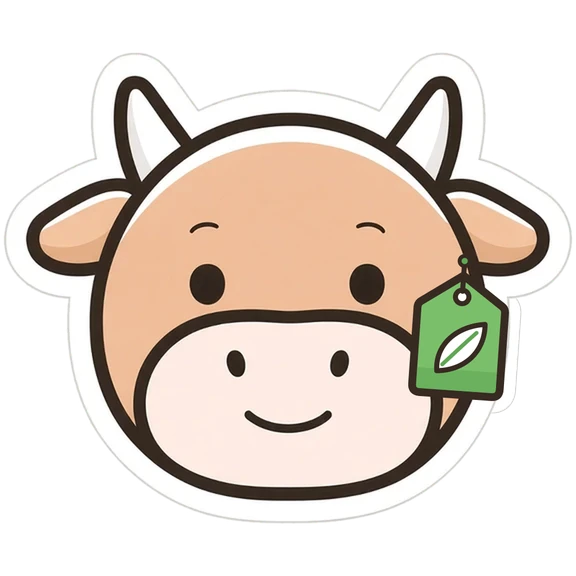
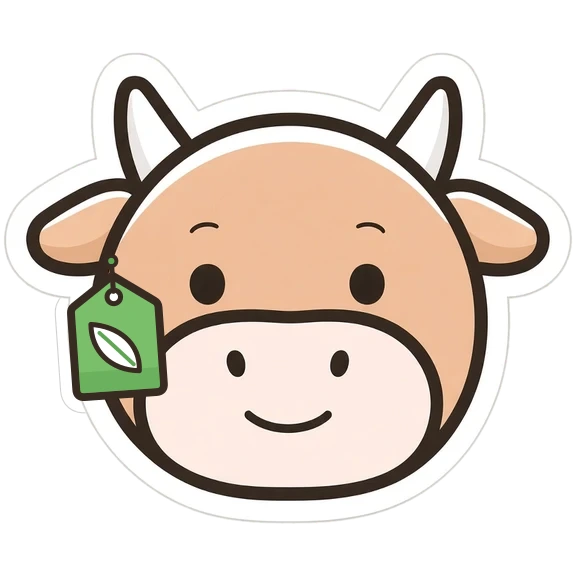
yjp-v16: 도장 v2(두꺼운 테·글씨, 잉크 질감, 흰 테+그림자), 유기농 태그 왼쪽 귀, 사람 상세 도장 얼굴과 겹침

Changed region(s): [[0.6875, 0.4375, 0.9062, 0.7188], [0.0938, 0.4375, 0.3125, 0.7188]]

diff --git a/nbzzEbYc9KFBr3/app/style.css b/nbzzEbYc9KFBr3/app/style.css
@@ -39,10 +39,17 @@ h2 small{font-weight:500;color:var(--sub);font-size:0.8824rem;margin-left:4px}
 .btn-r[data-a=hssave][disabled]{background:var(--red);color:#fff;opacity:.4}
 .btn-g{height:50px;border-radius:14px;background:var(--bg2);font-weight:600;width:100%}
 .btn-red-sm{height:44px;border-radius:22px;background:var(--red);color:#fff;font-weight:700;padding:0 18px}
-.stamp{flex:none;width:38px;height:38px;border-radius:50%;border:2px solid var(--red);color:var(--red);display:inline-flex;align-items:center;justify-content:center;font-weight:800;font-size:0.7647rem;letter-spacing:-.5px;background:#fff;box-shadow:inset 0 0 0 2px #fff,inset 0 0 0 3.5px var(--red)}
-.stamp.big{width:56px;height:56px;font-size:1rem}
-.stamp.fill{background:var(--red);color:#fff;box-shadow:inset 0 0 0 2px var(--red),inset 0 0 0 3.5px #fff}
-.stamp.hold{border:2px dashed #BDBDBD;box-shadow:none}
+.stamp{position:relative;flex:none;width:40px;height:40px;border-radius:50%;background:#fff;box-shadow:0 0 0 2.5px #fff,0 1px 2px rgba(0,0,0,.18),0 2px 6px rgba(0,0,0,.14);display:inline-flex;align-items:center;justify-content:center}
+/* v16 도장: 두꺼운 테·글씨, 잉크 질감(index.html의 SVG 필터 ink-s/ink-l), 바깥 흰 테+그림자, -6° 기울기, 등급별 색 --sc */
+.g5{--sc:#D52934}.g4{--sc:#C0434B}.g3{--sc:#AE5359}.g2{--sc:#995E62}.g1{--sc:#7D6B6C}
+.stamp .ink,.vstamp .ink{position:absolute;border-radius:50%;border-style:solid;border-color:var(--sc);color:var(--sc);display:flex;align-items:center;justify-content:center;font-style:normal;font-weight:900;transform:rotate(-6deg)}
+.stamp .ink{inset:2px;border-width:3.5px;font-size:1rem;letter-spacing:-.8px;-webkit-text-stroke:.9px var(--sc);filter:url(#ink-s)}
+.stamp.g1 .ink{font-size:.8rem}
+.stamp.big{width:66px;height:66px}
+.stamp.big .ink{inset:3px;border-width:4.5px;box-shadow:inset 0 0 0 3px #fff,inset 0 0 0 6px var(--sc);font-size:1.45rem;-webkit-text-stroke:1.1px var(--sc);filter:url(#ink-l)}
+.stamp.big.g1 .ink{font-size:1.12rem}
+
+.stamp.hold{background:transparent;box-shadow:none;border:2px dashed #BDBDBD}
 .em{width:24px;height:24px;object-fit:contain;flex:none}
 .org{display:inline-block;background:var(--org);color:#fff;font-size:0.5882rem;font-weight:700;border-radius:3px;padding:1px 3px}
 .empty{text-align:center;color:var(--sub);padding:34px 10px;line-height:1.6}
@@ -63,7 +70,7 @@ nav.tab button.on b{opacity:1;filter:none}
 .tile.on{border:2px solid var(--red);background:#FFF5F5;font-weight:700}
 .grades{display:flex;justify-content:space-between;gap:4px}
 .grades button{min-height:44px;min-width:44px;display:flex;flex-direction:column;align-items:center;gap:6px;font-size:0.7647rem;font-weight:600;flex:1}
-.grades button.on .stamp{background:var(--red);color:#fff;box-shadow:inset 0 0 0 2px var(--red),inset 0 0 0 3.5px #fff}
+.grades button.on .stamp .ink{background:var(--sc);color:#fff;box-shadow:inset 0 0 0 2px var(--sc),inset 0 0 0 3.5px #fff}
 .holdbtn{width:100%;margin-top:14px;height:46px;border:1.5px dashed #BDBDBD;border-radius:23px;font-weight:600}
 .holdbtn.on{border:2px solid var(--ink);background:var(--bg2)}
 .req{color:var(--red-t);font-size:0.7059rem;margin-left:6px;font-weight:600}
@@ -162,7 +169,7 @@ button[disabled]{cursor:default;pointer-events:none}
 
 .stampbtn{position:absolute;right:-34px;bottom:-14px;padding:0;border:0;background:none;min-width:44px;min-height:44px}
 .ph-head .av .stampbtn .stamp{position:static}
-.ph-head .av .stampbtn .stamp.big{width:44px;height:44px;font-size:.8235rem}
+
 .plabel{display:inline-flex;align-items:center;min-height:44px;margin-top:10px;padding:0 14px;border:0;border-radius:22px;background:#F2F2F2;color:#525252;font-size:13px;font-weight:600}
 
 .gz{position:relative;width:136px;height:136px;margin:0 auto;display:flex;align-items:center;justify-content:center;touch-action:none;user-select:none;-webkit-user-select:none}
@@ -189,8 +196,8 @@ button[disabled]{cursor:default;pointer-events:none}
 .gz{width:216px;height:216px}
 .ph-head .av,.gz .av .face{width:192px;height:192px}
 .ph-head .av img{width:192px;height:192px}
-.stampbtn{right:-26px;bottom:-12px;min-width:66px;min-height:66px}
-.ph-head .av .stampbtn .stamp.big{width:66px;height:66px;font-size:1.2rem}
+.stampbtn{right:-12px;bottom:-4px;min-width:66px;min-height:66px;z-index:3}
+
 .gh{font-size:26px}.gh-l{left:-62px}.gh-r{right:-62px}
 .gz.r-pat .face:after{background:radial-gradient(ellipse 18px 12px at 25% 60%,rgba(247,140,165,.85),rgba(247,140,165,0)),radial-gradient(ellipse 18px 12px at 75% 60%,rgba(247,140,165,.85),rgba(247,140,165,0))}
 .gz.r-pat .fx:after{right:-4px;top:-14px;font-size:40px}
@@ -227,7 +234,9 @@ html.vlock,html.vlock body{overflow:hidden}
 .cert .hero{position:relative;width:200px;height:190px;margin:14px auto 0}
 .cert .halo{position:absolute;left:10px;top:4px;width:180px;height:180px;border-radius:50%;background:radial-gradient(circle,#2b2720 0,#17150f 60%,transparent 72%)}
 .cert .hero img{position:absolute;left:30px;top:22px;width:140px;height:140px;object-fit:contain;filter:drop-shadow(0 10px 18px rgba(0,0,0,.55))}
-.cert .vstamp{position:absolute;right:-24px;bottom:-6px;width:76px;height:76px;border-radius:50%;transform:rotate(-12deg);display:flex;align-items:center;justify-content:center;color:var(--red);font-weight:800;font-size:1.45rem;letter-spacing:-1px;border:3px solid var(--red);box-shadow:inset 0 0 0 4px #0f0e0d,inset 0 0 0 6px var(--red);background:rgba(15,14,13,.88);box-sizing:border-box}
+.cert .vstamp{position:absolute;right:-24px;bottom:-6px;width:80px;height:80px;border-radius:50%;background:#fff;box-shadow:0 0 0 3px #fff,0 2px 10px rgba(0,0,0,.5)}
+.cert .vstamp .ink{inset:4px;border-width:5px;box-shadow:inset 0 0 0 3px #fff,inset 0 0 0 6.5px var(--sc);font-size:1.7rem;letter-spacing:-1px;-webkit-text-stroke:1.2px var(--sc);filter:url(#ink-l)}
+.cert .vstamp.g1 .ink{font-size:1.2rem}
 .cert .grade{font-size:1.6rem;font-weight:800;color:#F4EEE1;margin-top:6px}
 .cert .pers{margin-top:8px;font-size:.85rem;color:#B9B1A0}.cert .pers b{color:#F4EEE1}
 .cert .chips{justify-content:center;margin-top:16px}
@@ -242,8 +251,3 @@ html.vlock,html.vlock body{overflow:hidden}
 .kvsec .chips{margin:0}
 #app .scr{padding-bottom:calc(var(--sab) + 118px)}
 
-/* v15: 등급별 도장 채도 (10/20 r6 값) */
-.g5{--sc:#D52934}.g4{--sc:#C0434B}.g3{--sc:#AE5359}.g2{--sc:#995E62}.g1{--sc:#7D6B6C}
-.stamp[class*=" g"]{border-color:var(--sc);color:var(--sc);box-shadow:inset 0 0 0 2px #fff,inset 0 0 0 3.5px var(--sc)}
-.grades button.on .stamp[class*=" g"]{background:var(--sc);color:#fff;box-shadow:inset 0 0 0 2px var(--sc),inset 0 0 0 3.5px #fff}
-.cert .vstamp[class*=" g"]{color:var(--sc);border-color:var(--sc);box-shadow:inset 0 0 0 4px #0f0e0d,inset 0 0 0 6px var(--sc)}

diff --git a/nbzzEbYc9KFBr3/app/app.js b/nbzzEbYc9KFBr3/app/app.js
@@ -31,7 +31,7 @@ function stage(p){const c=cycleDays(p);if(!c)return {k:'none',t:'연락 안 함'
  if(diff<14)return {k:'aging',t:'숙성 중 D+'+diff,o:1,d:diff};return {k:'spoil',t:'상하기 직전 D+'+diff,o:0,d:diff}}
 function cycLabel(p){const c=cycleDays(p);return CYC.find(x=>x[0]===c)[1]}
 function emo(p,cls='em'){const src=p.hold||p.persona==null?'emoji/hold.webp':'emoji/p'+p.persona+'.webp';return `<img class="${cls}" src="${src}" alt="">`}
-function stamp(g,big){if(g==null)return `<span class="stamp hold ${big?'big':''}"></span>`;return `<span class="stamp g${g} ${big?'big':''}">${GR[g][0]}</span>`}
+function stamp(g,big){if(g==null)return `<span class="stamp hold ${big?'big':''}"></span>`;return `<span class="stamp g${g} ${big?'big':''}"><i class="ink">${GR[g][0]}</i></span>`}
 function organic(p){const wk=d=>Math.floor((d-S.day%7+70000)/7);if(!p.pats||!p.pats.length)return false;const w=new Set(p.pats.map(d=>Math.floor(d/7)));const cw=Math.floor(S.day/7);return (w.has(cw)&&w.has(cw-1))||(w.has(cw-1)&&w.has(cw-2))}
 function visible(){return S.people.filter(p=>!p.hidden)}
 function newOnes(){return visible().filter(p=>p.isNew&&!rated(p)&&!p.hold&&S.day-p.addedDay<7)}
@@ -132,7 +132,7 @@ function verdictBody(n,pub){const R=fakeRaters(n);const g=mode(R.map(r=>r.g)),pe
  <div class="small" style="margin-top:12px">결과는 매주 토요일 오전 9시에 갱신돼요</div></div>`}
 function verdictCert(n){const R=fakeRaters(n);const g=mode(R.map(r=>r.g)),pe=mode(R.map(r=>r.p));const c={};R.forEach(r=>new Set(r.r).forEach(t=>c[t]=(c[t]||0)+1));
  const tg=Object.keys(c).filter(t=>c[t]>=3);const sat=S.day-((dateOf(S.day).getDay()+1)%7);
- return `<div class="cert"><div class="tb2">테스트용 예시</div><div class="when">${mdw(sat)} 기준 · 평가 5명 이상 · 익명 종합</div><div class="rule"></div><div class="hero"><div class="halo"></div><img src="emoji/p${pe}.webp" alt=""><div class="vstamp g${g}">${GR[g][0]}</div></div><div class="grade">${GR[g][0]} ${GR[g][1]}</div><div class="pers">사람들이 꼽은 대표 성격 · <b>${PERS[pe]} 타입</b></div><div class="chips">${tg.map(t=>`<span class="chip sm ${REP_NEG.includes(t)?'neg':''}">${esc(t)}</span>`).join('')}</div><div class="upd">결과는 매주 토요일 오전 9시에 갱신돼요</div></div>`}
+ return `<div class="cert"><div class="tb2">테스트용 예시</div><div class="when">${mdw(sat)} 기준 · 평가 5명 이상 · 익명 종합</div><div class="rule"></div><div class="hero"><div class="halo"></div><img src="emoji/p${pe}.webp" alt=""><div class="vstamp g${g}"><i class="ink">${GR[g][0]}</i></div></div><div class="grade">${GR[g][0]} ${GR[g][1]}</div><div class="pers">사람들이 꼽은 대표 성격 · <b>${PERS[pe]} 타입</b></div><div class="chips">${tg.map(t=>`<span class="chip sm ${REP_NEG.includes(t)?'neg':''}">${esc(t)}</span>`).join('')}</div><div class="upd">결과는 매주 토요일 오전 9시에 갱신돼요</div></div>`}
 function verdict(){let h=`<div class="vd"><div class="vtop"><button class="vback" data-a="vback" aria-label="뒤로">‹</button><h1>내 판정서</h1>${info('verdict')}</div><div class="testbar">테스트용 예시 · 휴대폰 번호 인증은 건너뛰어요</div>`;
  if(!S.accepted)return h+`<h2 style="margin-top:20px">내 판정서 받기</h2><p class="note" style="font-size:0.8824rem;color:var(--ink)">평가가 5명 이상 모이면 익명 종합 결과만 볼 수 있어요. 누가 평가했는지는 알 수 없어요.</p>${S.reopen?'<p class="note">평가자들이 남긴 예전 평가까지 모두 다시 모여요.</p>':''}
   <label class="inp">이 번호를 언제부터 쓰셨나요?<input value="2019년 3월" readonly></label><div class="small" style="margin-top:6px">이 날짜 전에 쌓인 평가는 판정서에 넣지 않아요.</div><div style="height:20px"></div><button class="btn-r" data-a="accept">판정서 받기 시작</button></div>`;

diff --git a/nbzzEbYc9KFBr3/app/index.html b/nbzzEbYc9KFBr3/app/index.html
@@ -16,6 +16,24 @@
 <link rel="stylesheet" href="style.css">
 </head>
 <body>
+<svg width="0" height="0" style="position:absolute" aria-hidden="true"><defs>
+<filter id="ink-s" x="-10%" y="-10%" width="120%" height="120%" color-interpolation-filters="sRGB">
+ <feTurbulence type="fractalNoise" baseFrequency=".18" numOctaves="2" seed="3" result="n"/>
+ <feDisplacementMap in="SourceGraphic" in2="n" scale="0.9" xChannelSelector="R" yChannelSelector="G" result="d"/>
+ <feTurbulence type="fractalNoise" baseFrequency=".22" numOctaves="1" seed="21" result="v"/>
+ <feColorMatrix in="v" type="matrix" values="0 0 0 0 0  0 0 0 0 0  0 0 0 0 0  -40 0 0 0 29.2" result="m"/>
+ <feComposite in="d" in2="m" operator="in"/></filter>
+<filter id="ink-l" x="-10%" y="-10%" width="120%" height="120%" color-interpolation-filters="sRGB">
+ <feTurbulence type="fractalNoise" baseFrequency=".09" numOctaves="3" seed="5" result="n"/>
+ <feDisplacementMap in="SourceGraphic" in2="n" scale="1.5" xChannelSelector="R" yChannelSelector="G" result="d"/>
+ <feTurbulence type="fractalNoise" baseFrequency=".06" numOctaves="3" seed="11" result="v"/>
+ <feColorMatrix in="v" type="matrix" values="0 0 0 0 0  0 0 0 0 0  0 0 0 0 0  -24 0 0 0 17.3" result="p0"/>
+ <feComponentTransfer in="p0" result="p"><feFuncA type="table" tableValues=".72 1"/></feComponentTransfer>
+ <feTurbulence type="fractalNoise" baseFrequency=".2" numOctaves="2" seed="17" result="h"/>
+ <feColorMatrix in="h" type="matrix" values="0 0 0 0 0  0 0 0 0 0  0 0 0 0 0  -40 0 0 0 30.2" result="hm"/>
+ <feComposite in="d" in2="p" operator="in" result="d2"/>
+ <feComposite in="d2" in2="hm" operator="in"/></filter>
+</defs></svg>
 <div id="vlayer" aria-hidden="true"></div>
 <div id="vpeek" aria-hidden="true"><svg viewBox="0 0 32 32"><defs><linearGradient id="vdg" x1="0" y1="0" x2="1" y2="1"><stop offset="0" stop-color="#3a3631"/><stop offset="1" stop-color="#161411"/></linearGradient></defs><path d="M7 3.5h12.5l5.5 5.5v19a1.5 1.5 0 0 1-1.5 1.5h-16A1.5 1.5 0 0 1 6 28V5a1.5 1.5 0 0 1 1-1.5z" fill="url(#vdg)" stroke="#C9A96E" stroke-width="1.4" stroke-linejoin="round"/><path d="M19.5 3.5V8a1 1 0 0 0 1 1H25" fill="none" stroke="#C9A96E" stroke-width="1.4" stroke-linejoin="round"/><path d="M10 12h9M10 15.5h11M10 19h6" stroke="#9C8763" stroke-width="1.5" stroke-linecap="round"/><circle cx="20" cy="23.5" r="4.6" fill="#D93A44" stroke="#1a1714" stroke-width="1.2"/><circle cx="20" cy="23.5" r="2.7" fill="none" stroke="#fff" stroke-opacity=".75" stroke-width=".9"/></svg><span class="lb">내 판정서</span></div>
 <div id="app"></div>

diff --git a/nbzzEbYc9KFBr3/app/sw.js b/nbzzEbYc9KFBr3/app/sw.js
@@ -1,4 +1,4 @@
-const C='yjp-v15';
+const C='yjp-v16';
 const F=['./','index.html','style.css','app.js','curl.js','manifest.webmanifest','icon-180.png','icon-192.png','icon-512.png','fonts/Pretendard-Regular.woff2','fonts/Pretendard-Bold.woff2','emoji/hold.webp'].concat([...Array(12).keys()].map(i=>'emoji/p'+i+'.webp')).concat([...Array(12).keys()].map(i=>'emoji/o'+i+'.webp'));
 self.addEventListener('install',e=>{e.waitUntil(caches.open(C).then(c=>c.addAll(F)).then(()=>self.skipWaiting()))});
 self.addEventListener('activate',e=>{e.waitUntil(caches.keys().then(k=>Promise.all(k.filter(x=>x!==C).map(x=>caches.delete(x)))).then(()=>self.clients.claim()))});
